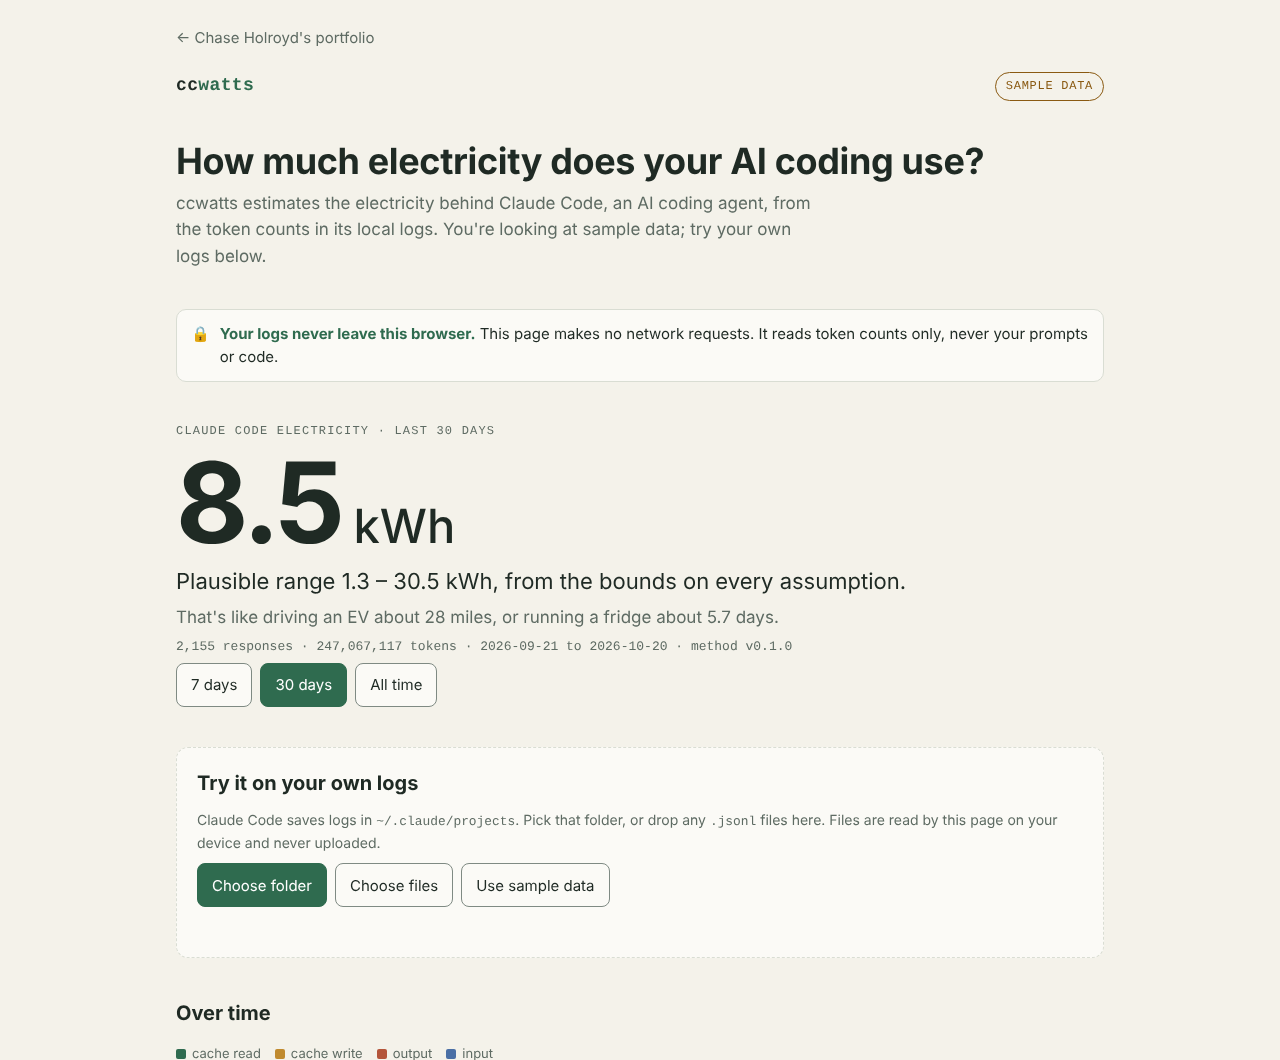
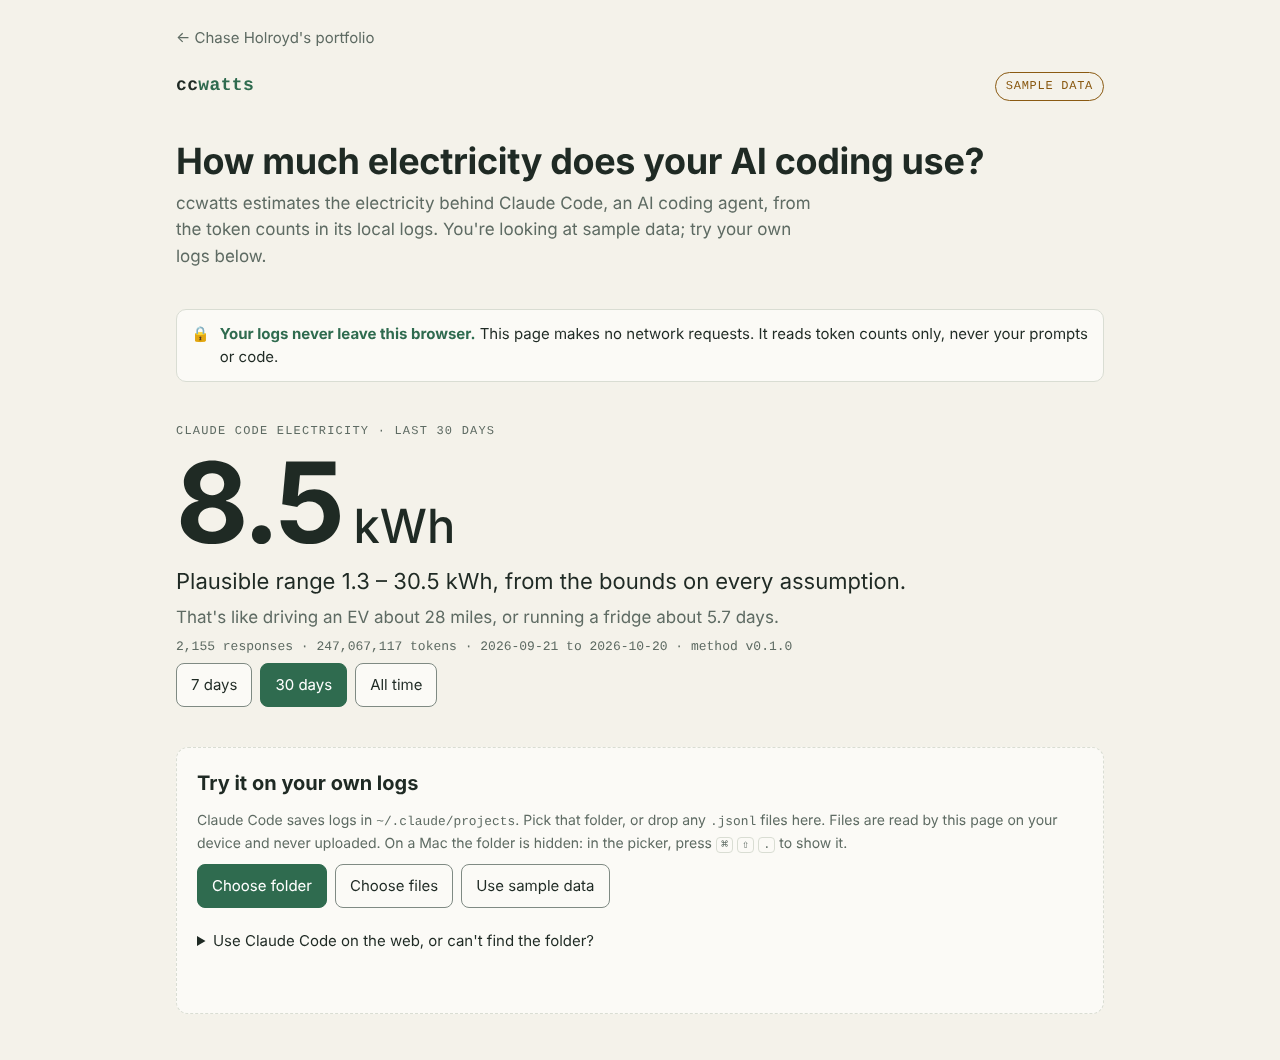
CCW-UX1–UX2: hero meta wraps whole items on phones, share text reads as a sentence
- hero meta line is one nowrap span per item (a date no longer splits across lines at 390px); check:browser asserts it
- share line and LinkedIn post: 'like driving an EV ... or running a fridge ...', no 'roughly ... about', 'came to' instead of 'use ... used'
- README phone/laptop screenshots re-shot

Claude-Session: https://claude.ai/code/session_01CofBbPQLEpjvqH72LtQacL

diff --git a/packages/core/src/receipt.ts b/packages/core/src/receipt.ts
@@ -39,7 +39,7 @@ function sampleWhose(windowLabel: string): string {
 export function shareLine({ estimate: e, params, windowLabel, sample }: ReceiptInput): string {
   const t = formatEnergy(e.total);
   const first = everyday(e.total.central / 1000, params).split(" · ")[0];
-  return `${sample ? sampleWhose(windowLabel) : whose(windowLabel)} used about ${t.central} of electricity (range ${t.range} ${t.unit}), roughly ${first}. Estimated locally with ${APP_NAME}, method v${params.version}: ${repoShort}`;
+  return `${sample ? sampleWhose(windowLabel) : whose(windowLabel)} came to about ${t.central} of electricity (range ${t.range} ${t.unit}), like ${first}. Estimated locally with ${APP_NAME}, method v${params.version}: ${repoShort}`;
 }
 
 /** A short ready-to-paste LinkedIn post. Plain words, no hype, sources linked. */
@@ -49,7 +49,7 @@ export function linkedInPost(input: ReceiptInput): string {
   const cacheShare = e.total.central > 0 ? Math.round(((e.byType.find((r) => r.key === "cacheRead")?.energy.central ?? 0) / e.total.central) * 100) : 0;
   if (sample) {
     return [
-      `(Sample data) This is what ${APP_NAME} shows for a sample developer, not a real measurement. ${sampleWhose(windowLabel).replace("(Sample data) ", "")}: about ${t.central} (range ${t.range} ${t.unit}), roughly ${everyday(e.total.central / 1000, params)}.`,
+      `(Sample data) This is what ${APP_NAME} shows for a sample developer, not a real measurement. ${sampleWhose(windowLabel).replace("(Sample data) ", "")}: about ${t.central} (range ${t.range} ${t.unit}), like ${everyday(e.total.central / 1000, params).replace(" · ", " or ")}.`,
       "",
       `${cacheShare}% of it came from the agent re-reading context it had already seen.`,
       "",
@@ -60,7 +60,7 @@ export function linkedInPost(input: ReceiptInput): string {
     ].join("\n");
   }
   return [
-    `I estimated the electricity behind my AI coding. ${whose(windowLabel)}: about ${t.central} (range ${t.range} ${t.unit}), roughly ${everyday(e.total.central / 1000, params)}.`,
+    `I estimated the electricity behind my AI coding. ${whose(windowLabel)}: about ${t.central} (range ${t.range} ${t.unit}), like ${everyday(e.total.central / 1000, params).replace(" · ", " or ")}.`,
     "",
     `${cacheShare >= 50 ? "The surprise: " : ""}${cacheShare}% of it came from the agent re-reading context it had already seen.`,
     "",

diff --git a/packages/web/src/app.ts b/packages/web/src/app.ts
@@ -77,9 +77,10 @@ function renderHero(e: Estimate, label: string) {
   $("hero-big").innerHTML = e.responses ? `${esc(value ?? "")}<small>${esc(unit ?? "")}</small>` : "–";
   $("hero-range").textContent = e.responses ? `Plausible range ${t.range} ${t.unit}, from the bounds on every assumption.` : "No usage in this window.";
   $("hero-compare").textContent = e.responses ? `That's like ${everyday(e.total.central / 1000, params).replace(" · ", ", or ")}.` : "";
-  const span = e.span ? ` · ${e.span.from} to ${e.span.to}` : "";
   const tokens = TOKEN_TYPES.reduce((s, k) => s + e.tokens[k], 0);
-  $("hero-meta").textContent = `${int(e.responses)} responses · ${int(tokens)} tokens${span} · method v${params.version}`;
+  // One span per item, kept whole, so a phone wraps between items and never inside a date.
+  const items = [`${int(e.responses)} responses`, `${int(tokens)} tokens`, ...(e.span ? [`${e.span.from} to ${e.span.to}`] : []), `method v${params.version}`];
+  $("hero-meta").innerHTML = items.map((i) => `<span>${esc(i)}</span>`).join(" · ");
   for (const id of ["7d", "30d", "all"] as WindowId[]) $(`w-${id}`).setAttribute("aria-pressed", String(state.window === id));
 }
 

diff --git a/packages/web/src/template.html b/packages/web/src/template.html
@@ -62,6 +62,7 @@ button,.btn{font:inherit;font-size:15px;min-height:44px;display:inline-flex;alig
 button:hover,.btn:hover{border-color:var(--accent)}
 button:focus-visible,.btn:focus-visible,input:focus-visible,.vh:focus-visible+.btn{outline:2px solid var(--accent);outline-offset:2px}
 /* Visually hidden but still focusable, so the styled label stays reachable by keyboard. */
+#hero-meta span{white-space:nowrap}
 .vh{position:absolute;width:1px;height:1px;margin:-1px;padding:0;border:0;overflow:hidden;clip:rect(0 0 0 0);white-space:nowrap}
 button[aria-pressed="true"]{background:var(--accent);color:var(--accent-ink);border-color:var(--accent)}
 .primary{background:var(--accent);color:var(--accent-ink);border-color:var(--accent)}

diff --git a/packages/core/test/receipt.test.ts b/packages/core/test/receipt.test.ts
@@ -21,6 +21,15 @@ describe("receipt", () => {
     expect(svg).toContain("ELECTRICITY RECEIPT");
   });
 
+  it("CCW-UX2 share line and post read as sentences: no double hedge, no dot separators in prose", () => {
+    for (const text of [shareLine(input), linkedInPost(input), linkedInPost({ ...input, sample: true })]) {
+      const first = text.split("\n")[0] + (text.split("\n")[2] ?? "");
+      expect(first).not.toMatch(/roughly/);
+      expect(first).not.toMatch(/miles · |days · /);
+      expect(first).toMatch(/like driving an EV about [\d.]+ miles/);
+    }
+  });
+
   it("post links the repo and explains the range", () => {
     const post = linkedInPost(input);
     expect(post).toContain("https://github.com/");

diff --git a/HANDOFF.md b/HANDOFF.md
@@ -34,9 +34,11 @@ _Updated 2026-10-21._
 - 2026-10-22: playground gains an H1 ("How much electricity does your AI coding use?"), a lede, and a "← Chase Holroyd's portfolio" link to https://chaseholroyd.com/ccwatts.html. Portfolio fix for `npx ccwatts` (RR-2) sent as an INTAKE block for Product Studio.
 - 2026-10-22: README now links the live playground near the top, and its screenshots show the current playground on sample data (new H1 and back link). If the portfolio reuses README images, use `docs/images/playground-laptop.png` / `playground-phone.png`.
 - 2026-10-23: the playground's "Try it on your own logs" box adds a copy-paste prompt and a paste box for Claude Code on the web users (PR pending). No portfolio change needed.
+- 2026-10-23: README phone/laptop screenshots re-shot (hero meta line no longer splits a date on phones). Share text now says "like driving an EV about N miles" instead of "roughly driving…". If the portfolio quotes the share line, it can update.
 - **Keep in sync:** when a change here alters what the portfolio page or demo shows (features, numbers, screenshots, privacy claims), tell the portfolio thread ("Portfolio research and upgrade plan") or update the page in `holroydchase-afk.github.io` (`tools/build.py`). Any portfolio change that touches this product adds a dated line here.
 
 ## Done
+- 2026-10-23 (night shift, UX sweep): ux-reviewer pass on the playground and dashboard at 390×844 and 1280×800, light and dark, full page: no sideways scroll, no console errors, method table and tap targets fine. Fixed: the hero meta line split a date across lines on phones ("2026-" / "09-21"); items now wrap whole (CCW-UX1, checked in `npm run check:browser`). Share line and LinkedIn post drop the double hedge ("roughly driving an EV about…" → "like driving an EV about… or running a fridge about…") and "All my Claude Code use so far used" → "came to" (CCW-UX2, test in receipt.test.ts). README phone and laptop screenshots re-shot with `scripts/make-readme-images.mjs`. 84 tests, green 3x.
 - 2026-10-23 (night shift, CCW-H harden pass 1): ccwatts 0.1.0 is live on npm (published by Chase via the Actions workflow on Oct 23; `npx ccwatts@0.1.0` verified on the fixture with an empty HOME). README "Try it" now leads with `npx ccwatts` and drops the pre-publish wording (CCW-H6). CLI first-run fixes, each with a failing test first in `packages/cli/test/cli.test.ts` (end-to-end: bundles the CLI with esbuild and runs it in a throwaway HOME): `--path` no longer mixes into or writes your history (CCW-H1, it used to merge the README's sample file into your real totals forever); `-v/--version` (CCW-H2); plain messages for unknown options and missing values (CCW-H3); `--demo` runs on the same synthetic sample as the playground with no logs needed, labeled "Sample data (synthetic)", leaves history alone, and `receipt`/`dashboard` refuse it so nobody shares sample numbers as their own (CCW-H7); the no-logs message now offers `--demo` and the playground. 83 tests, green 3x; typecheck and `check:browser` pass.
 - 2026-10-23: playground gets a copy-paste prompt for people who run Claude Code on the web (or can't find the folder). The prompt asks Claude to write a counts-only `ccwatts-usage.jsonl` (no content, cwd reduced to the folder name). The page reads it from a file or a paste box, and the Mac hidden-folder shortcut (⌘⇧.) is shown. Chase's idea after he found he only uses Claude Code in the browser. Covered by `page.test.ts` and `check:browser`.
 - 2026-10-22: D12 built: history rows carry `outputContext` (sum of output × context per day/model/project). Counts only, not shown or priced yet; old rows without it still parse, and fresh logs fill it in. See `packages/core/README.md`.
@@ -83,7 +85,7 @@ All of M1.1 to M1.8 (old S1 to S7 plus the README; PRs #1, #3 to #10) and the Pa
 - M2.1: Chase has only used Claude Code in the browser (cloud sessions), so his Mac has no `~/.claude/projects` logs yet. Oct 23: ran the CLI on a real cloud session's own log (95 responses, 13.5M tokens, Opus 5.5) and it matched an independent dedupe count exactly (same responses, same tokens). Still to do: a run on a local install once Chase uses Claude Code on his Mac, to record `cleanupPeriodDays` (cloud containers have no settings.json).
 - M1.9 playground hosting (PR #12): live at chaseholroyd.com/ccwatts/ since Oct 21 (Pages deploys from `main` succeed).
 - Chase: after 0.1.0, switch npm to trusted publishing and delete the token and the `NPM_TOKEN` secret (issue #38). Bypass-2FA direct publish ends January 2027.
-- Night shift (Oct 23) continues the harden pass: ux-reviewer sweep of the playground and dashboard at 390/1280, light and dark.
+- Harden pass left (P2, not started): the summary's "≈ charging a phone about 0.5 times" for tiny totals could read "about half a phone charge"; the dashboard shows "8 kWh" where the playground shows "8.5" for similar totals (formatting drops a trailing .0, fine but noticeable side by side).
 - Waiting on Chase (from the Atlas intake, logged in IDEAS.md): what "metric data" meant for the bench idea.
 
 ## Decisions to review
